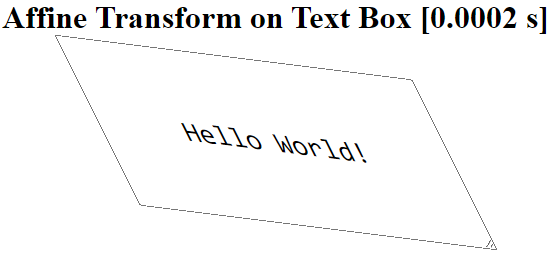
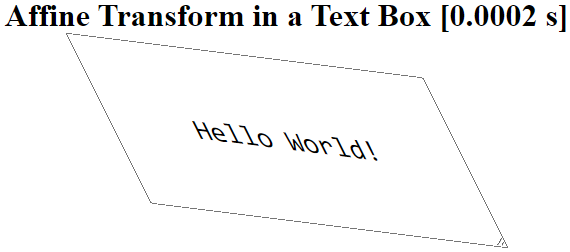
Affine Transform in TextBox example

diff --git a/test/test.js b/test/test.js
@@ -357,7 +357,7 @@ function testCSS1(){
     let div = document.createElement('div');
     div.style.width = '80%';
     let h1 = document.createElement('h1');
-    h1.textContent = 'Affine Transform on Text Box';
+    h1.textContent = 'Affine Transform in a Text Box';
     h1.style.textAlign = 'center';
     div.appendChild(h1);
     let inputText = document.createElement('textarea');
